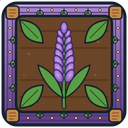
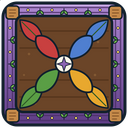
Joker: tuile à fleur quadricolore et feuilles des 4 couleurs; main bloquée: pulse fort du Shuffle dès que rien n'est jouable, secousse plus marquée d'une pièce injouable
Claude-Session: https://claude.ai/code/session_013EccGmGcBAAqujeLGmWbCi

Changed region(s): [[0.1562, 0.1562, 0.8438, 0.875]]

diff --git a/Assets/Scripts/Presentation/HandView.cs b/Assets/Scripts/Presentation/HandView.cs
@@ -1,5 +1,6 @@
 using System;
 using System.Collections;
+using System.Collections.Generic;
 using Contigu.Core;
 using Contigu.Data;
 using UnityEngine;
@@ -40,9 +41,12 @@ namespace Contigu.Presentation
         private const float ShufflePulseAmplitude = 0.08f;
         private const float ShufflePulseSpeed = 1.5f;
         // Short, decaying side-to-side shake on a slot the player can't pick up (see SelectSlot).
-        private const float UnplayableShakeDuration = 0.3f;
-        private const float UnplayableShakeMagnitude = 8f;
-        private const float UnplayableShakeCycles = 4f;
+        private const float UnplayableShakeDuration = 0.45f;
+        private const float UnplayableShakeMagnitude = 15f;
+        private const float UnplayableShakeCycles = 5f;
+        // When the whole hand is stuck, the Shuffle button pulses much harder than its usual gentle breathing.
+        private const float StuckPulseAmplitude = 0.22f;
+        private const float StuckPulseSpeed = 5.5f;
         // Light scale-up pulse on the piece preview itself (not the whole slot) when it's picked up, whether
         // by a plain click-select or the start of a drag (BeginSlotDrag always routes through SelectSlot) —
         // smaller peak than GridCellView.Pulse's 1.18 since this should read as a light acknowledgement, not
@@ -74,6 +78,9 @@ namespace Contigu.Presentation
         private Button _shuffleButton;
         private Text _shuffleCountLabel;
         private Coroutine _shufflePulseCoroutine;
+        private Coroutine _stuckPulseCoroutine;
+        private bool _handStuck;
+        private Image _stuckGlow;
         private Coroutine[] _shakeCoroutines;
         private Coroutine[] _selectPulseCoroutines;
         private bool _shuffleAllowed = true;
@@ -242,6 +249,11 @@ namespace Contigu.Presentation
         /// <summary>Starts/stops a slow breathing scale pulse on the Shuffle button.</summary>
         public void SetShufflePulsing(bool pulsing)
         {
+            // While the whole hand is stuck the strong pulse owns the button.
+            if (_handStuck)
+            {
+                return;
+            }
             if (pulsing)
             {
                 if (_shufflePulseCoroutine == null)
@@ -255,6 +267,102 @@ namespace Contigu.Presentation
                 StopCoroutine(_shufflePulseCoroutine);
                 _shufflePulseCoroutine = null;
                 _shuffleButton.transform.localScale = Vector3.one;
+            }
+        }
+
+        /// <summary>
+        /// True when no piece in the hand fits anywhere on the grid (and a Shuffle is still available): the Shuffle button pulses
+        /// hard with a red halo and every slot breathes red — before the player even tries to pick a piece. Recomputed on every
+        /// <see cref="Refresh"/>.
+        /// </summary>
+        private void UpdateStuckState()
+        {
+            bool stuck = false;
+            if (_run.State == RunState.InProgress && _run.ShufflesRemaining > 0)
+            {
+                var shapes = new List<PieceShape>();
+                for (int i = 0; i < _deck.Hand.Count; i++)
+                {
+                    if (_deck.Hand[i].HasValue && !IsBossLockedSlot(i))
+                    {
+                        shapes.Add(PieceShapeCatalog.GetRotated(_deck.Hand[i].Value.Shape, _deck.HandRotations[i]));
+                    }
+                }
+                stuck = shapes.Count > 0 && !_run.Grid.HasAnyValidPlacement(shapes);
+            }
+            SetHandStuck(stuck);
+        }
+
+        private void SetHandStuck(bool stuck)
+        {
+            if (stuck == _handStuck)
+            {
+                return;
+            }
+            _handStuck = stuck;
+            if (stuck)
+            {
+                // Hand over from the gentle breathing pulse to the strong one.
+                if (_shufflePulseCoroutine != null)
+                {
+                    StopCoroutine(_shufflePulseCoroutine);
+                    _shufflePulseCoroutine = null;
+                }
+                _stuckPulseCoroutine = StartCoroutine(StuckPulseRoutine());
+                return;
+            }
+            if (_stuckPulseCoroutine != null)
+            {
+                StopCoroutine(_stuckPulseCoroutine);
+                _stuckPulseCoroutine = null;
+            }
+            _shuffleButton.transform.localScale = Vector3.one;
+            if (_stuckGlow != null)
+            {
+                _stuckGlow.gameObject.SetActive(false);
+            }
+            UpdateSelectionVisuals();
+        }
+
+        private void EnsureStuckGlow()
+        {
+            if (_stuckGlow != null)
+            {
+                return;
+            }
+            var buttonRect = _shuffleButton.GetComponent<RectTransform>();
+            var glow = UIFactory.CreatePanel(buttonRect.parent, "StuckGlow", new Color(1f, 0.3f, 0.25f, 0f));
+            glow.sprite = UISprites.CountBadge;
+            glow.raycastTarget = false;
+            var rt = glow.rectTransform;
+            rt.anchorMin = rt.anchorMax = new Vector2(1f, 1f);
+            rt.pivot = new Vector2(0.5f, 0.5f);
+            rt.sizeDelta = new Vector2(ShuffleButtonWidth * 1.4f, ShuffleButtonWidth * 1.4f);
+            // The button hangs from its top-right corner, so its center is half its size in from there.
+            rt.anchoredPosition = buttonRect.anchoredPosition + new Vector2(-buttonRect.sizeDelta.x * 0.5f, -buttonRect.sizeDelta.y * 0.5f);
+            rt.SetSiblingIndex(buttonRect.GetSiblingIndex());
+            _stuckGlow = glow;
+        }
+
+        private IEnumerator StuckPulseRoutine()
+        {
+            EnsureStuckGlow();
+            _stuckGlow.gameObject.SetActive(true);
+            while (true)
+            {
+                float wave = 0.5f + 0.5f * Mathf.Sin(Time.time * StuckPulseSpeed);
+                float scale = 1f + StuckPulseAmplitude * wave;
+                _shuffleButton.transform.localScale = new Vector3(scale, scale, 1f);
+                _stuckGlow.rectTransform.localScale = Vector3.one * (1f + 0.6f * wave);
+                _stuckGlow.color = new Color(1f, 0.3f, 0.25f, 0.55f * (1f - wave) + 0.15f);
+                for (int i = 0; i < _slotBackgrounds.Length; i++)
+                {
+                    if (_deck.Hand[i].HasValue && _slotBackgrounds[i].gameObject.activeSelf && _interactable)
+                    {
+                        _slotBackgrounds[i].color = Color.Lerp(UITheme.Panel, new Color(1f, 0.62f, 0.58f), 0.55f * wave);
+                    }
+                }
+                yield return null;
             }
         }
 
@@ -393,6 +501,7 @@ namespace Contigu.Presentation
                     StopCoroutine(_shakeCoroutines[idx]);
                 }
                 _shakeCoroutines[idx] = StartCoroutine(ShakeSlot(idx));
+                SfxManager.Play(SfxId.InvalidDrop);
                 if (SlotUnplayable != null)
                 {
                     SlotUnplayable(idx);
@@ -451,10 +560,16 @@ namespace Contigu.Presentation
                 float damping = 1f - progress;
                 float offsetX = Mathf.Sin(progress * UnplayableShakeCycles * Mathf.PI * 2f) * UnplayableShakeMagnitude * damping;
                 rect.anchoredPosition = originalPos + new Vector2(offsetX, 0f);
+                // Red flash that fades as the shake dies down.
+                _slotBackgrounds[index].color = Color.Lerp(UITheme.Panel, new Color(1f, 0.45f, 0.4f), 0.8f * damping);
                 yield return null;
             }
             rect.anchoredPosition = originalPos;
             _shakeCoroutines[index] = null;
+            if (!_handStuck)
+            {
+                UpdateSelectionVisuals();
+            }
         }
 
         private bool IsBossLockedSlot(int index)
@@ -589,6 +704,7 @@ namespace Contigu.Presentation
             }
             UpdateSlotInteractability();
             UpdateSelectionVisuals();
+            UpdateStuckState();
         }
 
         /// <summary>

diff --git a/Design/Tiles/generate_tiles.py b/Design/Tiles/generate_tiles.py
@@ -47,6 +47,13 @@ def frame(p, emblem, leaves=True, sprouts=True, extra_border=""):
   </g>''' % dict(soil=p.get('soil', '#6b4528'), soil_d=p.get('soil_d', '#53331b'), soil_l=p.get('soil_l', '#8a6038')))
     out.append('  <g clip-path="url(#inset)">')
     if leaves:
+        lc = p.get('leaf_colors') or [p.get('leaf', '#5a9e45')] * 4
+        out.append('''    <g stroke="#13212e" stroke-width="3" stroke-linejoin="round">
+      <path d="M40 40c30 2 44 16 46 46c-30 -2 -44 -16 -46 -46z" fill="%s"/><path d="M216 40c-30 2 -44 16 -46 46c30 -2 44 -16 46 -46z" fill="%s"/>
+      <path d="M40 216c30 -2 44 -16 46 -46c-30 2 -44 16 -46 46z" fill="%s"/><path d="M216 216c-30 -2 -44 -16 -46 -46c30 2 44 16 46 46z" fill="%s"/>
+    </g>''' % tuple(lc))
+        out.append('''    <g stroke="%(vein)s" stroke-width="2" stroke-linecap="round" fill="none"><path d="M44 44L76 76M212 44L180 76M44 212L76 180M212 212L180 180"/></g>''' % dict(vein=p.get('vein', '#2f5a28')))
+    if False:
         out.append('''    <g fill="%(leaf)s" stroke="#13212e" stroke-width="3" stroke-linejoin="round">
       <path d="M40 40c30 2 44 16 46 46c-30 -2 -44 -16 -46 -46z"/><path d="M216 40c-30 2 -44 16 -46 46c30 -2 44 -16 46 -46z"/>
       <path d="M40 216c30 -2 44 -16 46 -46c-30 2 -44 16 -46 46z"/><path d="M216 216c-30 -2 -44 -16 -46 -46c30 2 44 16 46 46z"/>
@@ -145,11 +152,18 @@ joker_emblem = '''    <g stroke-linecap="round" stroke-linejoin="round">
 fireflies = ''.join('<circle cx="%d" cy="%d" r="2.6" fill="#ffd966" stroke="#13212e" stroke-width="1"/>' % xy for xy in
                     [(56, 20), (104, 20), (152, 20), (200, 20), (56, 236), (104, 236), (152, 236), (200, 236), (20, 56), (20, 104), (20, 152), (20, 200), (236, 56), (236, 104), (236, 152), (236, 200)])
 
+# ---------------- Joker: the wildcard — a four-petal flower in the four bloom colors, echoed by four colored corner leaves ----------------
+JOKER_COLORS = ['#c8403f', '#4f7fd0', '#e8a82e', '#5a9e45']  # Poppy, Bluebell, Sunflower, Fern
+joker4_emblem = ('    <g>\n      %s\n'
+                 '      <circle cx="128" cy="128" r="17" fill="#fff7e8" stroke="#13212e" stroke-width="3.5"/>\n'
+                 '      <path d="M128 114 L131.5 124.5 L142 128 L131.5 131.5 L128 142 L124.5 131.5 L114 128 L124.5 124.5 Z" fill="#8c63b0" stroke="#13212e" stroke-width="1.5"/>\n'
+                 '    </g>') % ''.join(petals(1, 128, 128, 14, 78, 27, c, '#13212e', 3.5, ph) for c, ph in zip(JOKER_COLORS, (-45, 45, 135, 225)))
+
 tiles = {
     'Frost': (dict(b_top='#6f9ae6', b_bot='#2f56a6', furrow='#2a4a8a', hi='#c4d9fb', s1='#6fb04f', s2='#4f9440', defs=frost_defs, leaf='#5a9e45'), frost_emblem, True, True, ''),
     'Gold': (dict(b_top='#f5c95c', b_bot='#b87a14', furrow='#a8700f', hi='#ffe9a6', s1='#6fb04f', s2='#4f9440', defs=gold_defs, wood='#8f5b2b', grain='#5a3414', leaf='#5a9e45'), gold_emblem, True, True, ''),
     'Moss': (dict(b_top='#82c564', b_bot='#3a7a2e', furrow='#2c5a25', hi='#bfe8a2', s1='#d6e87a', s2='#b5d45a', leaf='#3f7a35', vein='#1f4a1c'), moss_emblem, True, True, ''),
-    'Joker': (dict(b_top='#ad88d0', b_bot='#5e3d85', furrow='#4a2f66', hi='#e0cdf5', s1='#6fb04f', s2='#4f9440', defs=lav_defs, leaf='#5a9e45'), joker_emblem, True, True, '<g>%s</g>' % fireflies),
+    'Joker': (dict(b_top='#ad88d0', b_bot='#5e3d85', furrow='#4a2f66', hi='#e0cdf5', s1='#6fb04f', s2='#4f9440', defs=lav_defs, leaf='#5a9e45', leaf_colors=[JOKER_COLORS[0], JOKER_COLORS[1], JOKER_COLORS[3], JOKER_COLORS[2]]), joker4_emblem, True, True, '<g>%s</g>' % fireflies),
 }
 empty_p = dict(b_top='#9a9080', b_bot='#6f6558', furrow='#5a5044', hi='#cfc6b6', s1='#8a8a5a', s2='#6f7a4a', soil='#4a3220', soil_d='#392414', soil_l='#6a4a2c')
 pebbles = '<g fill="#8a8072" stroke="#13212e" stroke-width="2"><ellipse cx="92" cy="110" rx="9" ry="6"/><ellipse cx="170" cy="152" rx="8" ry="5.5"/><ellipse cx="120" cy="186" rx="6" ry="4"/></g><g stroke="#2f241a" stroke-width="3" stroke-linecap="round" opacity="0.7"><path d="M44 128H212M44 228H212"/></g>'
